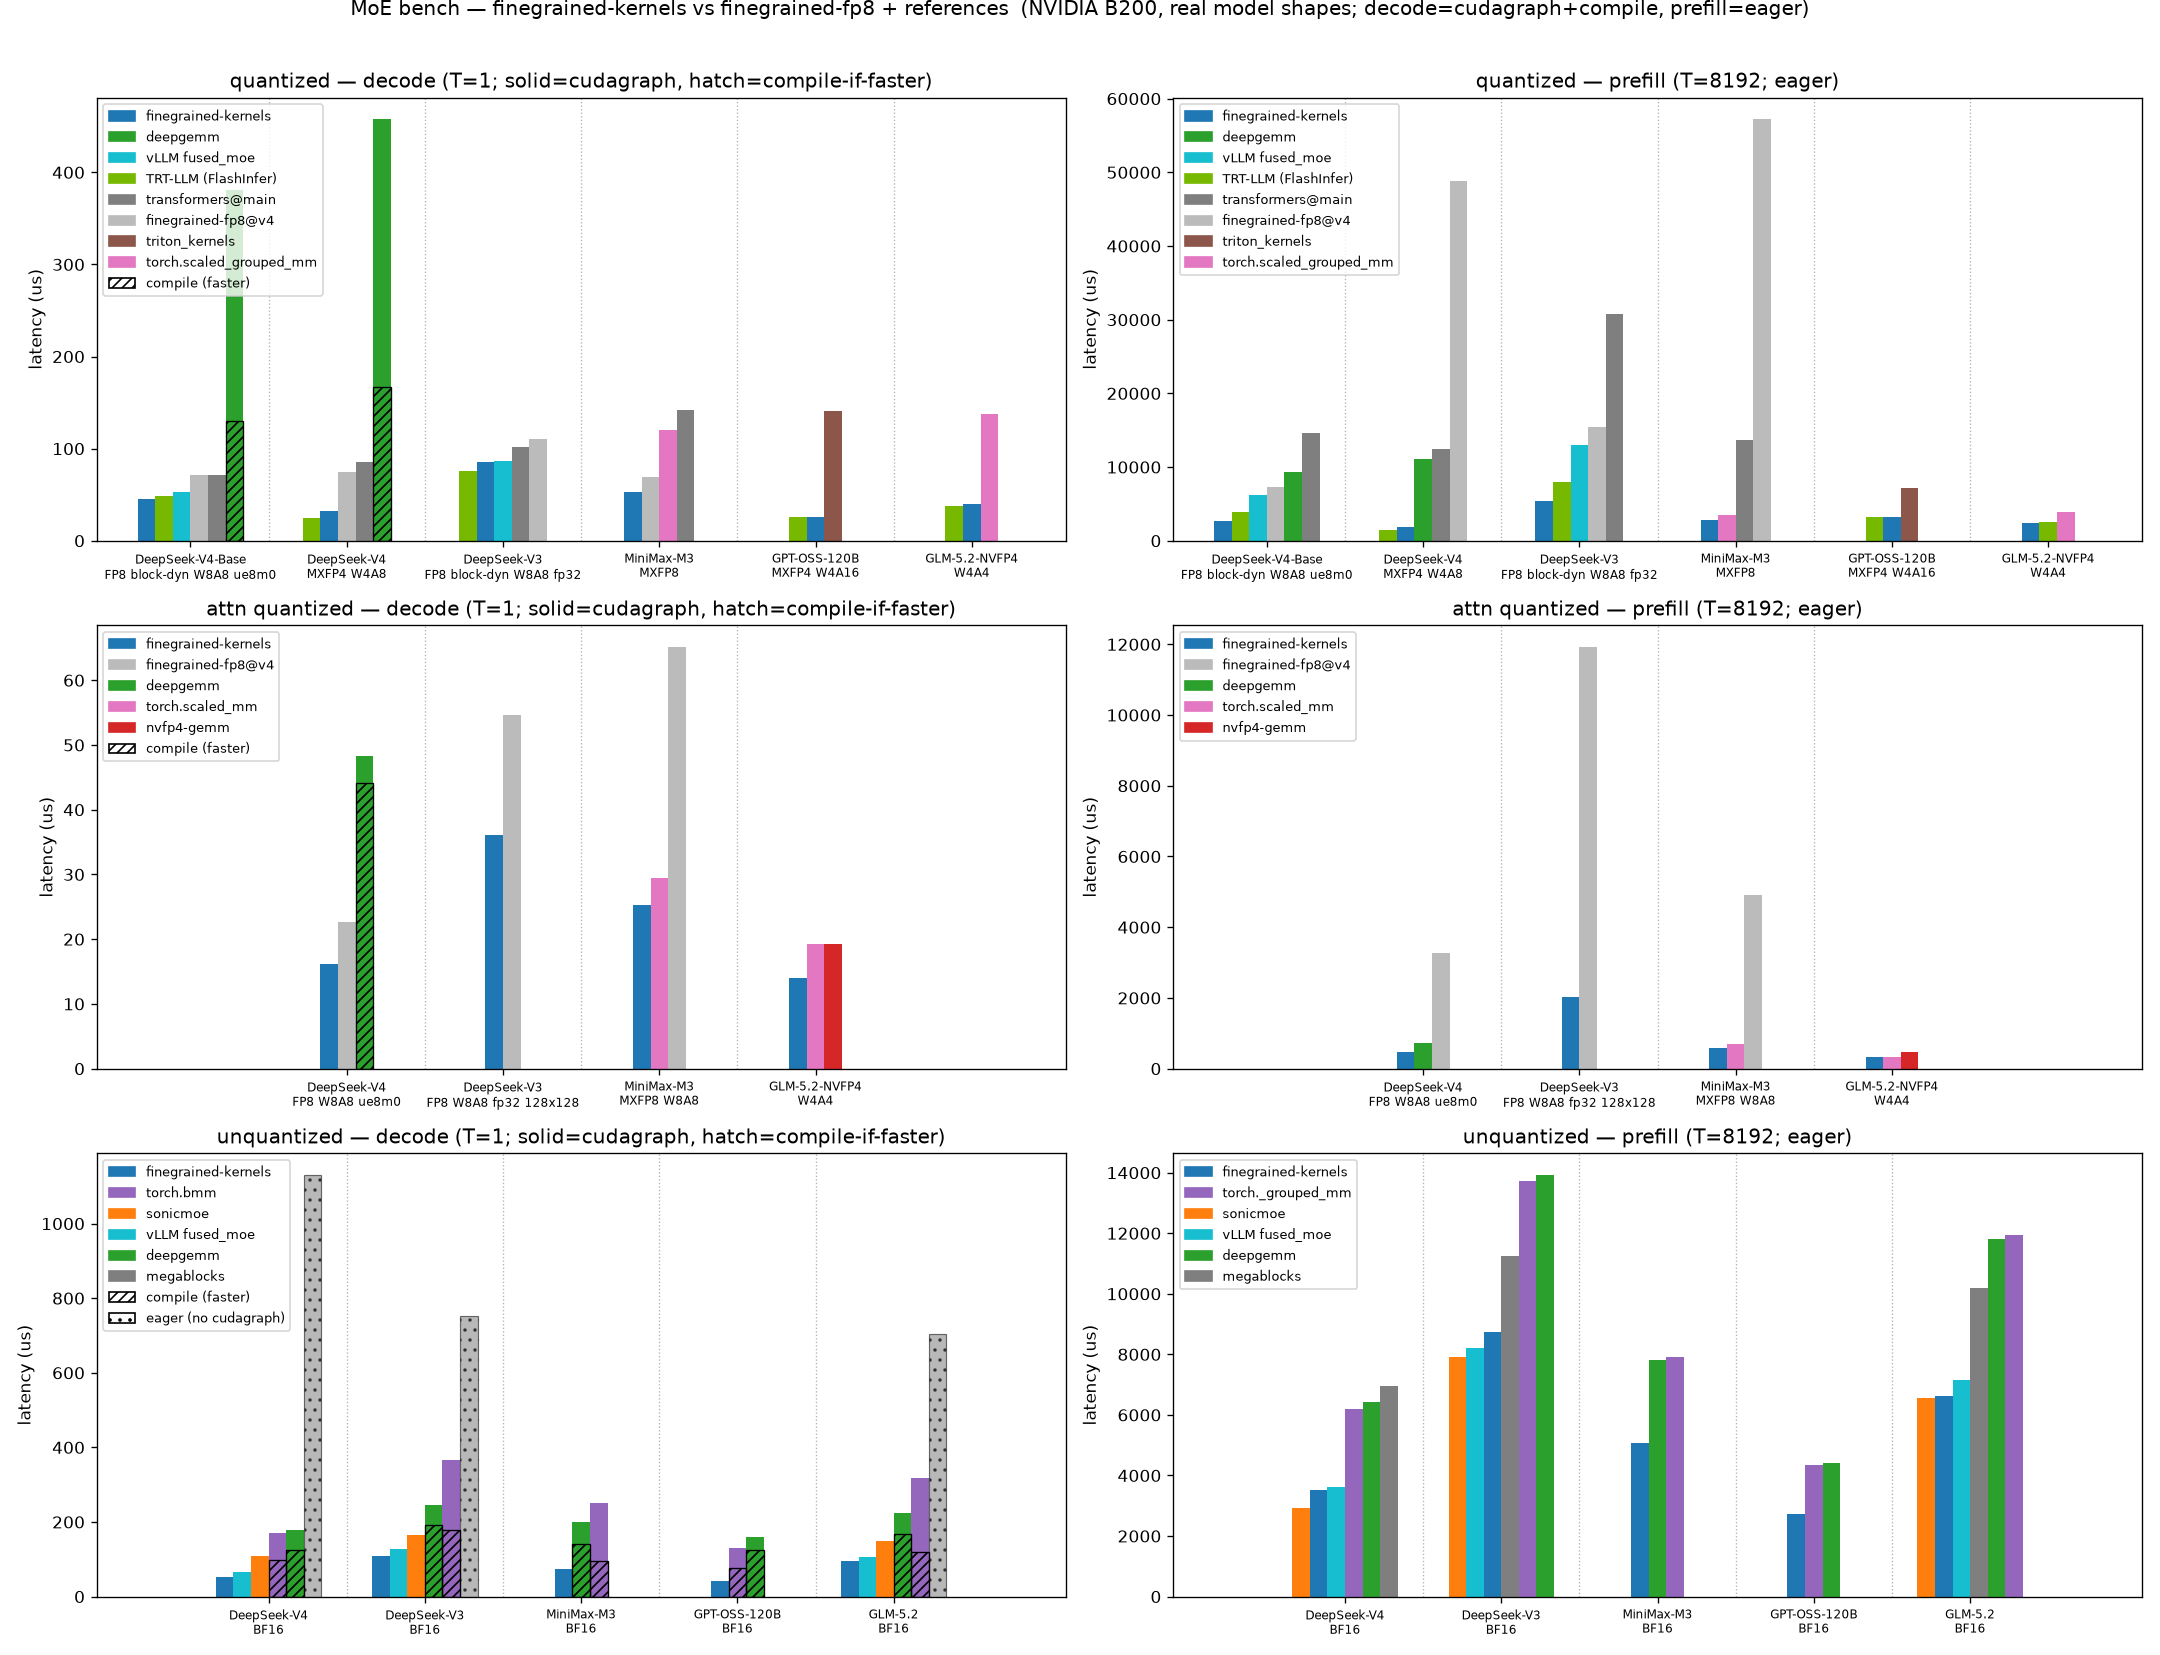
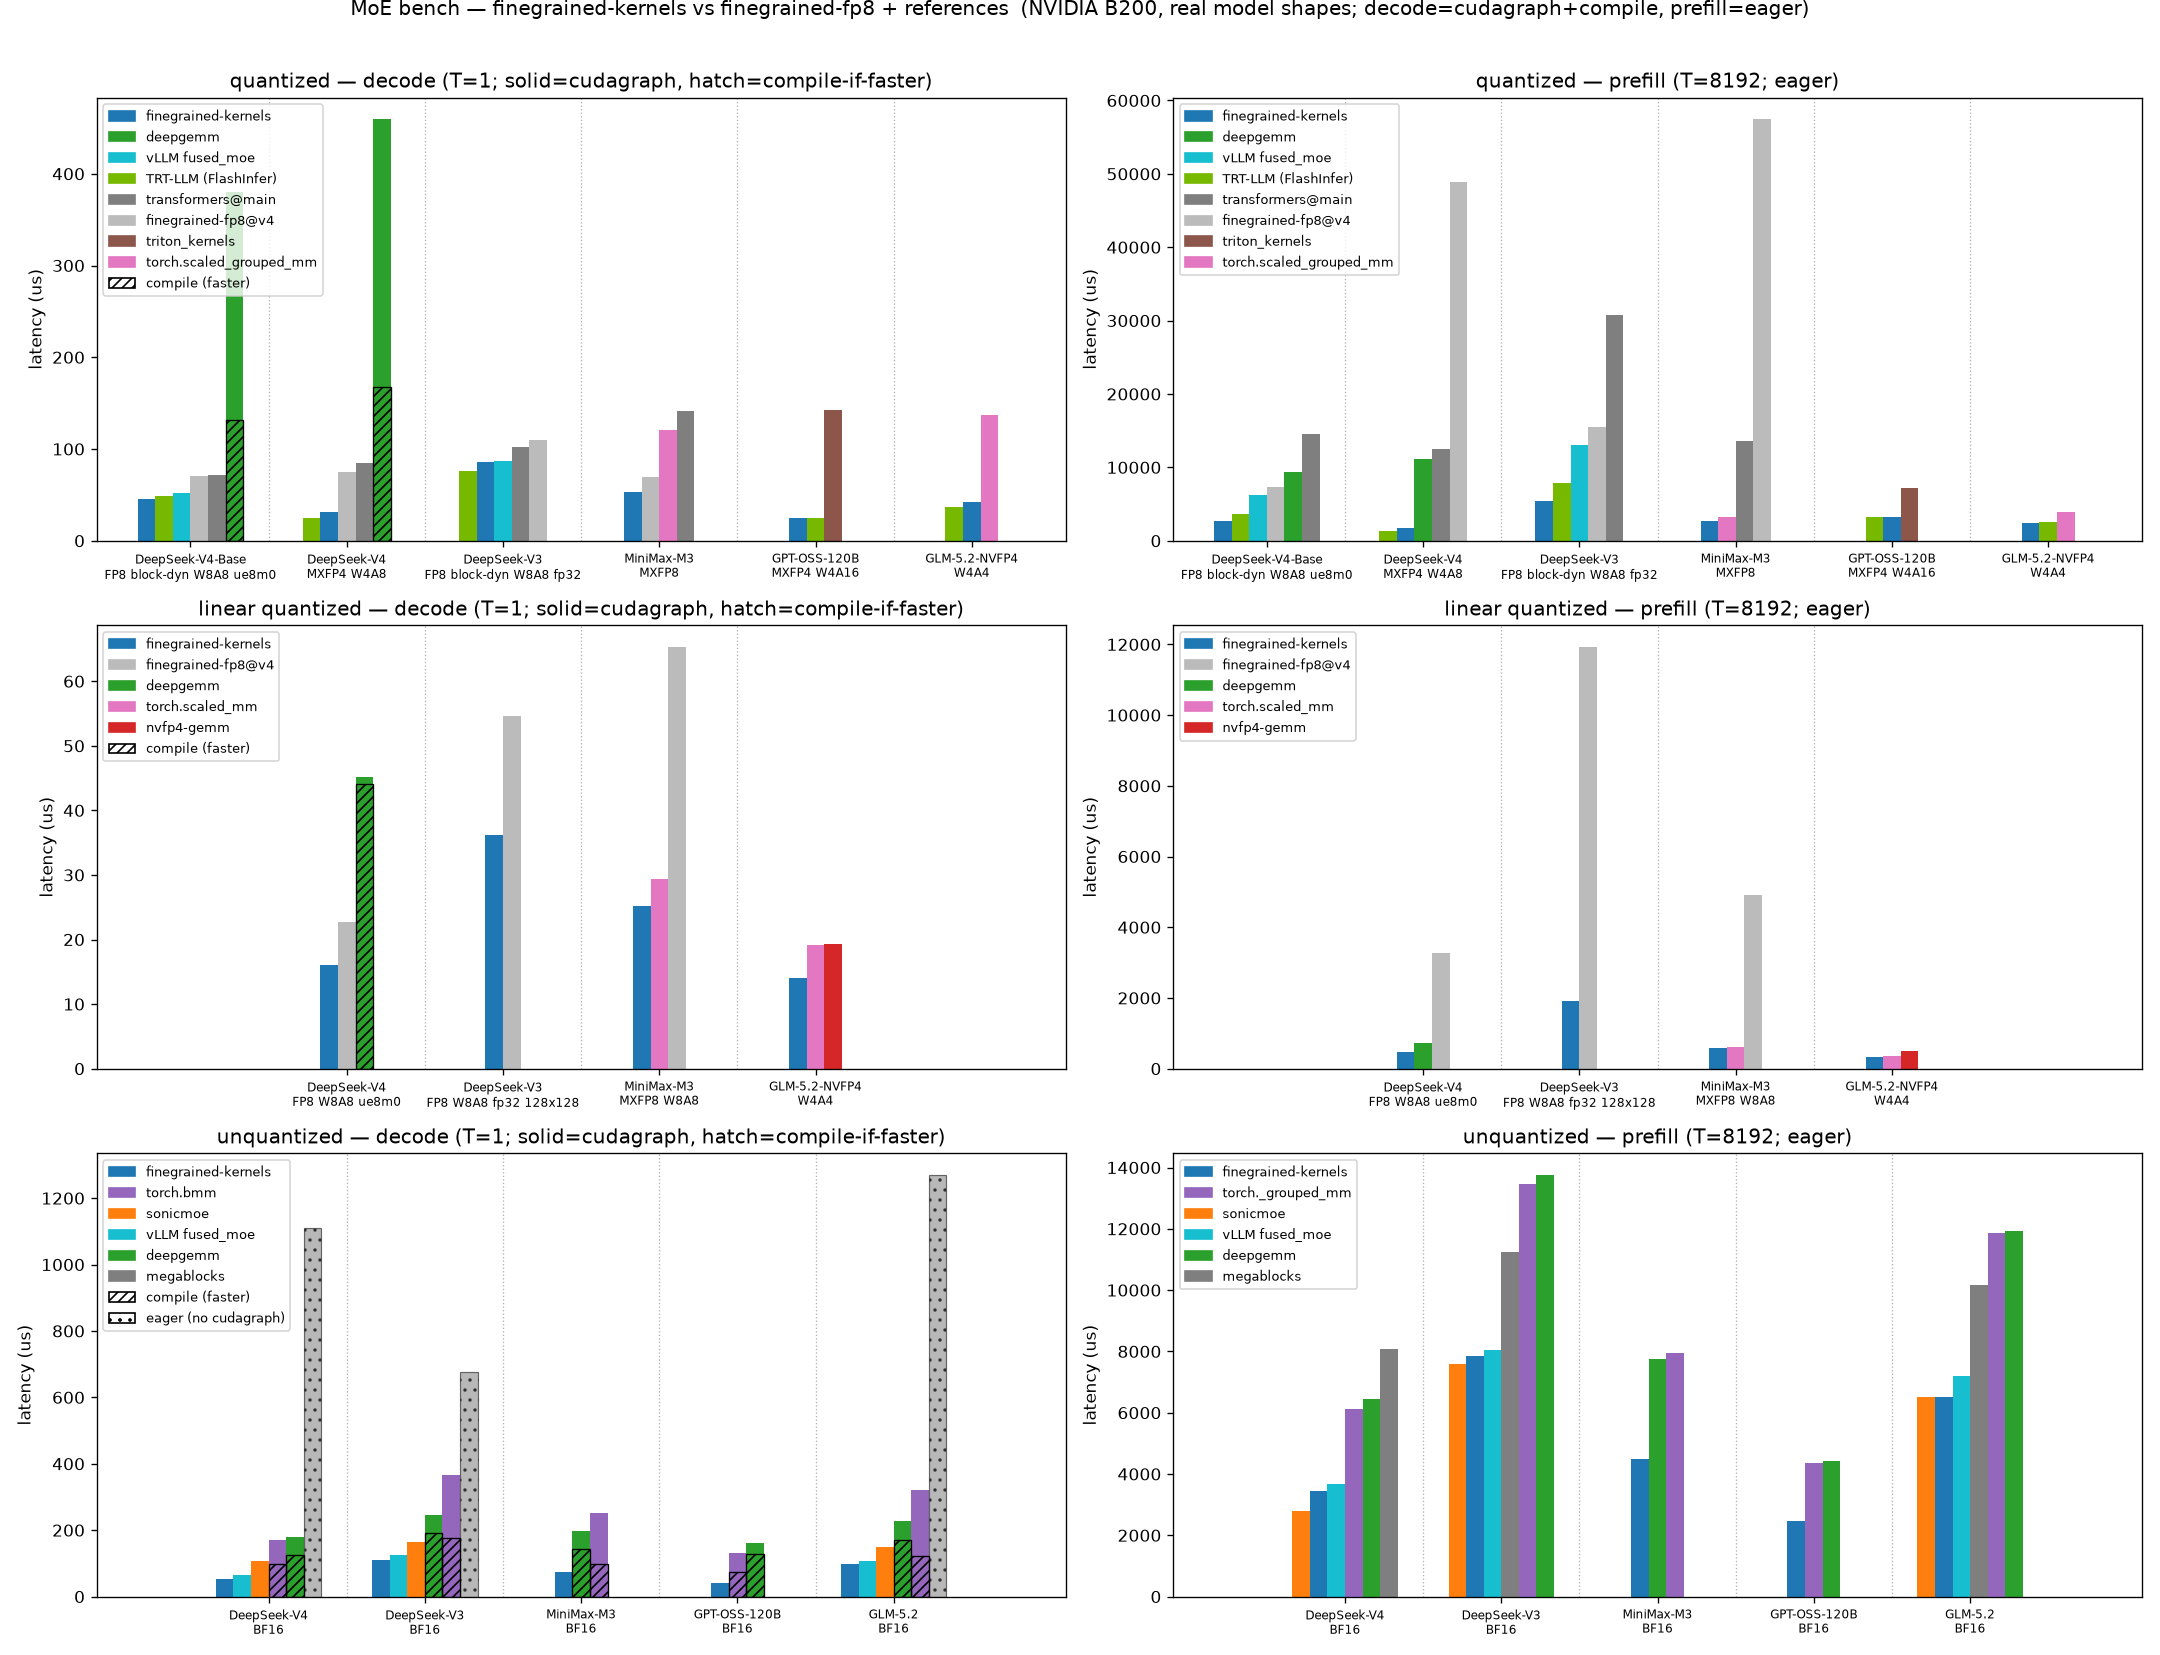
bench: the experts stand-in tracks the interface, and the docs track the figure
`_Experts` duck-types transformers' experts module, so it has to carry every
attribute the reference forwards read. `post_expert_norm_name` was added to
that set with the per-expert output norm and the stand-in never learned it,
which crashed all 30 BF16 `transformers` cells on an AttributeError.

The docs had drifted from the figure in two ways: `bench/README.md` described
four rows where there are three (the fused/unfused split is not in the figure —
it is an internal distinction most baselines do not have), and both its
baseline list and the runner's printed one omitted vLLM, TRT-LLM, megablocks
and nvfp4-gemm, which the figure has been plotting.

Figure regenerated on 8xB200 with both this and the GLU fix. Every crash left
in the run is compile-mode dynamo or megablocks' cudagraph CPU copy; no
finegrained-kernels cell crashes.

diff --git a/finegrained-kernels/bench/bench_moe.py b/finegrained-kernels/bench/bench_moe.py
@@ -555,6 +555,9 @@ class _Experts:
         self.num_experts = cfg["E"]
         self.has_gate, self.has_bias = True, False
         self.is_transposed, self.is_concatenated = False, True
+        # the reference forwards read this like `act_fn`: a name when the model normalizes each
+        # expert application before the routing weights, None when it does not
+        self.post_expert_norm_name = None
         self.gate_up_proj, self.down_proj = gu, dn
         self.gate_up_proj_scale_inv, self.down_proj_scale_inv = gus, dns
         self.block_size = cfg["block_size"]
@@ -1351,7 +1354,8 @@ device_name = "MOCK (random values)" if MOCK else torch.cuda.get_device_name(0)
 print(f"device: {device_name}  torch {torch.__version__}"
       f"{'  [SMOKE]' if SMOKE else ''}")
 print("finegrained-kernels = local build; baselines: finegrained-fp8 (upstream), DeepGEMM, "
-      "transformers grouped_mm/batched_mm, SonicMoE, torch.scaled_grouped_mm, "
+      "vLLM fused MoE, FlashInfer's TRT-LLM routed MoE, transformers grouped_mm/batched_mm, "
+      "SonicMoE, OpenAI triton_kernels, torch.scaled_grouped_mm, "
       "nvfp4-gemm (transformers' NVFP4Linear kernel), megablocks (bf16 dMoE)"
       f"{f'  |  {GPUS} GPUs' if GPUS > 1 else ''}\n")
 

diff --git a/finegrained-kernels/bench/README.md b/finegrained-kernels/bench/README.md
@@ -6,17 +6,24 @@ reference implementations, on real model shapes.
 
 ## What it compares
 
-Four figure rows, each a **decode | prefill** subplot pair:
+Three figure rows, each a **decode | prefill** subplot pair:
 
-- **fused quantized** — `moe_fused_*` vs v4 vs DeepGEMM
-- **unfused quantized** — `moe_unfused_*` (two GEMMs + host GLU) vs v4 vs DeepGEMM
-- **unquantized (BF16)** — fused vs transformers `grouped_mm`/`batched_mm`, SonicMoE, DeepGEMM BF16
+- **quantized** — the MoE at every impl's best: `moe_fused_*` against finegrained-fp8, DeepGEMM,
+  vLLM, TRT-LLM, `transformers@main` and `triton_kernels`. Each impl contributes the shape it has —
+  fused where there is one, the two-GEMM shape for `transformers@main`, which has only that. There
+  is no fused/unfused split in the figure: it is an internal distinction of ours that most of these
+  baselines do not have. The unfused arms (`moe_unfused_*`) stay in `ARMS`, but no problem's
+  baseline set enlists them, so they do not run by default.
 - **linear quantized** — one qkv-shaped `matmul_2d` linear per model, in its deployment format
+- **unquantized (BF16)** — fused vs transformers `grouped_mm`/`batched_mm`, SonicMoE, vLLM,
+  DeepGEMM BF16 and megablocks
 
 Baselines per problem ("all kinds"): upstream **finegrained-fp8** (`@ v4`), **DeepGEMM**
-(fp8/fp4/bf16), **transformers** `grouped_mm`/`batched_mm` (= `torch._grouped_mm` / `torch.bmm`,
-the BF16 torch/cuBLAS path), **SonicMoE**, the OpenAI **triton_kernels** MXFP4 path (GPT-OSS),
-and **`torch.scaled_grouped_mm`** (the quantized-prefill cuBLAS reference). Each is
+(fp8/fp4/bf16), **vLLM**'s fused MoE, **FlashInfer**'s TRT-LLM routed-MoE kernels,
+**transformers** `grouped_mm`/`batched_mm` (= `torch._grouped_mm` / `torch.bmm`, the BF16
+torch/cuBLAS path), **SonicMoE**, the OpenAI **triton_kernels** MXFP4 path (GPT-OSS),
+**megablocks** (BF16 dMoE), **nvfp4-gemm** (the kernel behind transformers' `NVFP4Linear`) and
+**`torch.scaled_grouped_mm`** / **`torch.scaled_mm`** (the cuBLAS references). Each is
 import-guarded — a missing dependency skips that baseline instead of failing the run.
 
 Every cell runs in three modes: `eager`, `cudagraph` (decode's deployment mode), and
